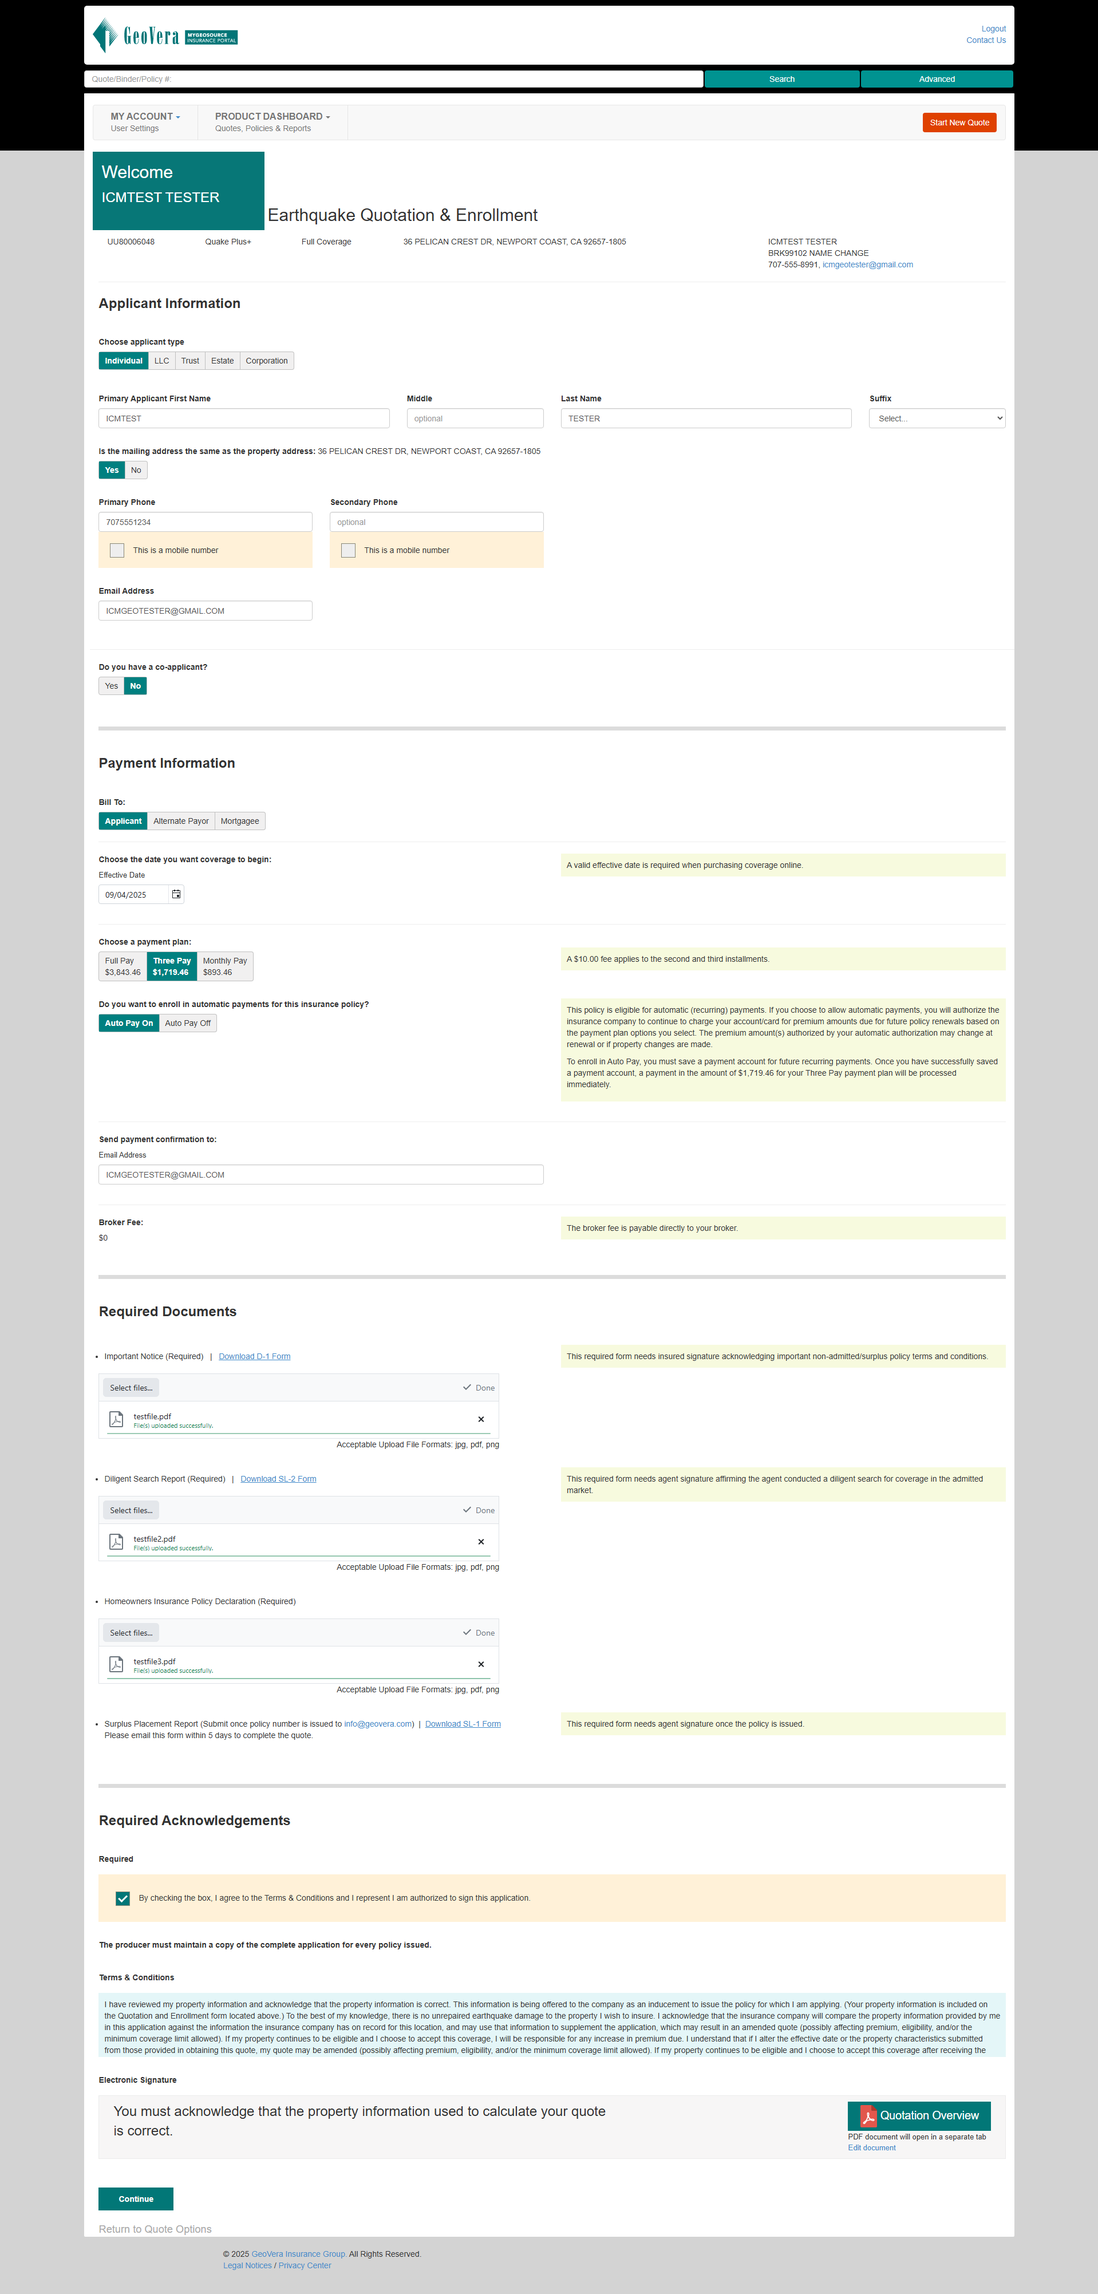
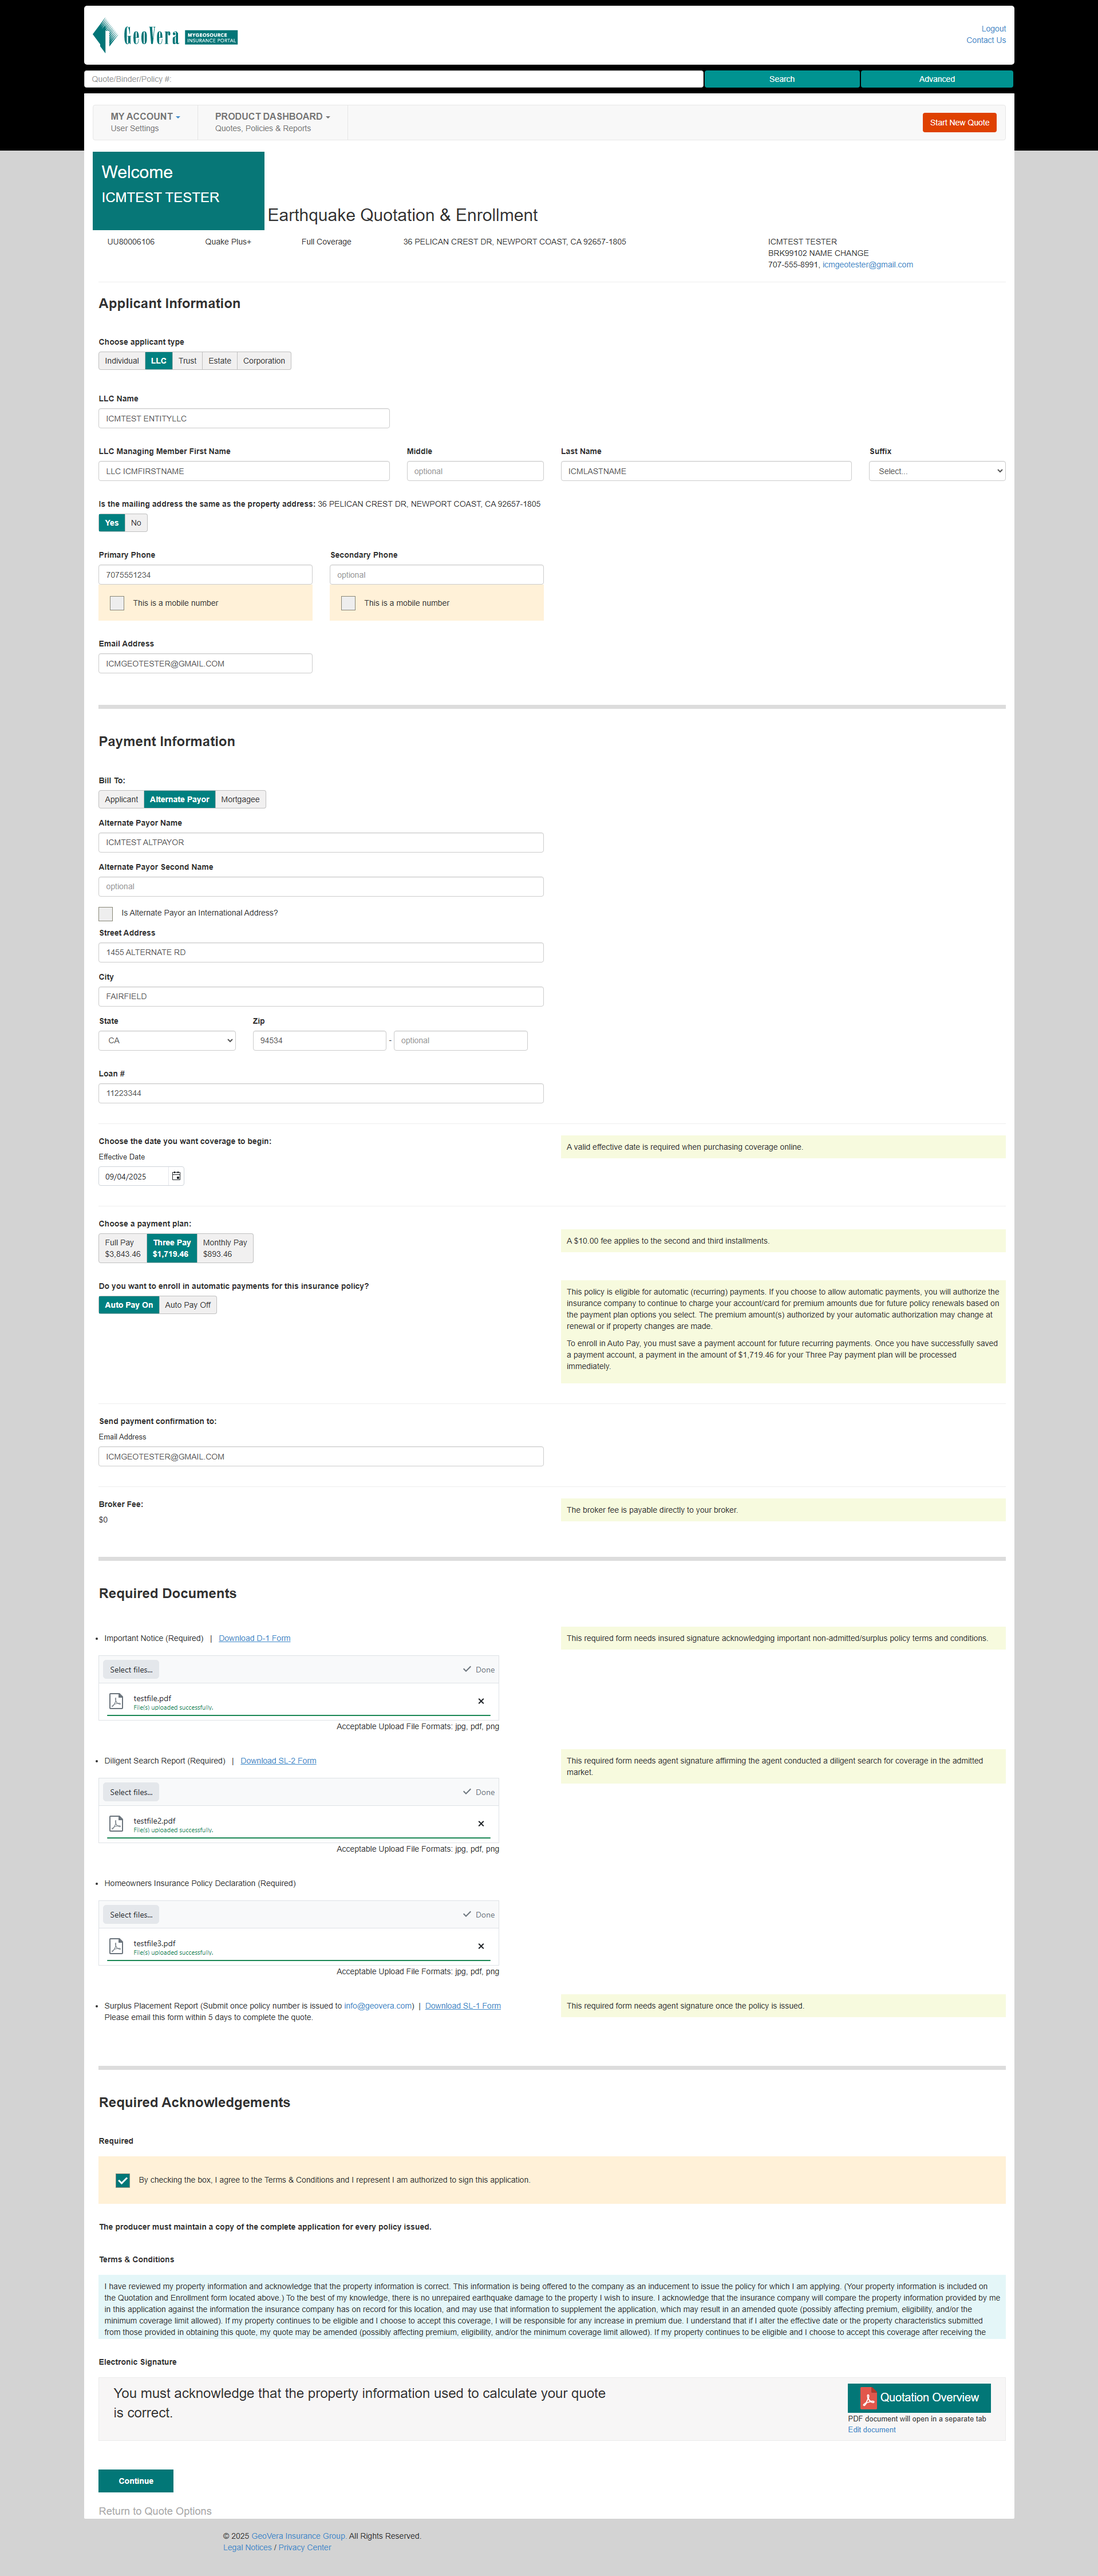
Updated to include variable selection for applicant type along with updates to payment plan, auto payment, and bill to choice

diff --git a/tests/test_quakeplusflex/test_quote_quakeplusflex_10%.py b/tests/test_quakeplusflex/test_quote_quakeplusflex_10%.py
@@ -50,7 +50,7 @@ def test_quote_quakeplusflex_5percent(page: Page) -> None:
     # deductible_percent = os.getenv("DEDUCTIBLE_PERCENT", "10%")
 
     # Applicant Choice: Applicant, Alternate Payor, Mortgagee
-    applicant_choice = os.getenv("APPLICANT_CHOICE", "Applicant")
+    bill_to = os.getenv("BILL_TO", "Alternate Payor")
 
     page.goto("https://tst.mygeosource.com/")
     page.get_by_role("textbox", name="Policyholder Email or Agent").fill("BRK99102")
@@ -120,18 +120,61 @@ def test_quote_quakeplusflex_5percent(page: Page) -> None:
     page.screenshot(path=screenshot_path7, full_page=True)
     page.get_by_role("button", name="Pay Now").click()
 
-    page.locator(".radio-toolbar")
-# Set this variable to one of: 'Applicant', 'Alternate Payor', 'Mortgagee'
-    applicant_choice_option = applicant_choice
-    print(f"\nSelected Applicant Choice: {applicant_choice_option}\n")
-    if applicant_choice_option == "Applicant":
+
+    
+    toolbars = page.locator(".radio-toolbar")
+
+    # 1st toolbar = applicant type
+    toolbars.nth(0).get_by_text(applicant_type, exact=True).click()
+    print(f"\nSelected Applicant Type: \n{applicant_type}")
+    if applicant_type == "Individual":
         page.get_by_text("Applicant", exact=True).click()
         # Fill in applicant information
         # page.locator("#Applicant_FirstName").fill("ICMTEST")
         # page.locator("#Applicant_LastName").fill("TESTER")
         # page.locator("#Applicant_PhoneNumber").fill("7075551234")
         # page.locator("#ApplicantEmailAddress").fill("ICMGEOTESTER@GMAIL.COM")
-    elif applicant_choice_option == "Alternate Payor":
+    elif applicant_type == "LLC":
+        page.get_by_text("LLC", exact=True).click()
+        # Fill in the alternate payor information
+        page.locator("#Entity").fill("ICMTEST ENTITYLLC")
+        page.locator("#ManagingMember_FirstName").fill("LLC ICMFIRSTNAME")
+        page.locator("#ManagingMember_LastName").fill("ICMLASTNAME")
+    elif applicant_type == "Trust":
+        page.get_by_text("Trust", exact=True).click()
+        # Fill in mortgagee information
+        page.locator("#Entity").fill("ICMTEST ENTITYLLC")
+        page.locator("#ManagingMember_FirstName").fill("LLC ICMFIRSTNAME")
+        page.locator("#ManagingMember_LastName").fill("ICMLASTNAME")
+    elif applicant_type == 'Estate':
+        page.get_by_text("Estate", exact=True).click()
+        # Fill in estate information
+        page.locator("#Entity").fill("ICMTEST ENTITYESTATE")
+        page.locator("#ManagingMember_FirstName").fill("ESTATE ICMFIRSTNAME")
+        page.locator("#ManagingMember_LastName").fill("ICMLASTNAME")
+    elif applicant_type == 'Corporation':
+        page.get_by_text("Corporation", exact=True).click()
+        # Fill in corporation information
+        page.locator("#Entity").fill("ICMTEST ENTITYCORPORATION")
+        page.locator("#ManagingMember_FirstName").fill("CORPORATION ICMFIRSTNAME")
+        page.locator("#ManagingMember_LastName").fill("ICMLASTNAME")
+    else:
+        raise ValueError(f"Unknown bill to choice: {bill_to_choice}")
+
+
+
+    page.locator(".radio-toolbar")
+# Set this variable to one of: 'Applicant', 'Alternate Payor', 'Mortgagee'
+    bill_to_choice = bill_to
+    print(f"\n\nSelected Bill To Choice: \n{bill_to_choice}\n")
+    if bill_to_choice == "Applicant":
+        page.get_by_text("Applicant", exact=True).click()
+        # Fill in applicant information
+        # page.locator("#Applicant_FirstName").fill("ICMTEST")
+        # page.locator("#Applicant_LastName").fill("TESTER")
+        # page.locator("#Applicant_PhoneNumber").fill("7075551234")
+        # page.locator("#ApplicantEmailAddress").fill("ICMGEOTESTER@GMAIL.COM")
+    elif bill_to_choice == "Alternate Payor":
         page.get_by_text("Alternate Payor", exact=True).click()
         # Fill in the alternate payor information
         page.locator("#AlternatePayor_Addressee1").fill("ICMTEST ALTPAYOR")
@@ -140,7 +183,7 @@ def test_quote_quakeplusflex_5percent(page: Page) -> None:
         page.locator("#AlternatePayor_State").select_option("CA")
         page.locator("#AlternatePayor_ZipCode").fill("94534")
         page.locator("#AlternatePayorLoanNumber").fill("11223344")
-    elif applicant_choice_option == "Mortgagee":
+    elif bill_to_choice == "Mortgagee":
         page.get_by_text("Mortgagee", exact=True).click()
         # Fill in mortgagee information
         page.locator('#btn-edit-mortgagee').click()
@@ -152,14 +195,14 @@ def test_quote_quakeplusflex_5percent(page: Page) -> None:
         page.locator("#Mortgagee1_State").select_option("CA")
         page.locator("#Mortgagee1_ZipCode").fill("94534")
     else:
-        raise ValueError(f"Unknown applicant choice: {applicant_choice_option}")
+        raise ValueError(f"Unknown bill to choice: {bill_to_choice}")
 
     payment_type = page.get_by_text(payment_plan)
     payment_type.click()
-    print(f"\nSelected Payment Type: {payment_type.inner_text()}")
+    print(f"Selected Payment Type: \n{payment_type.inner_text()}\n")
     auto_pay_onoff = page.get_by_text(auto_payment, exact=True)
     auto_pay_onoff.click()
-    print(f"Selected Auto Pay: {auto_pay_onoff.inner_text()}")
+    print(f"Selected Auto Pay: \n{auto_pay_onoff.inner_text()}\n")
     page.set_input_files("#fileD1",
                     absolute_path1)
     page.set_input_files("#fileSL2",
@@ -169,7 +212,7 @@ def test_quote_quakeplusflex_5percent(page: Page) -> None:
     page.locator(".eqq-terms-and-conditions-agreement > .eqq-checkbox-container > .eqq-checkbox > .bho-checkbox > .bho-checkmark").click()
     td_text = page.locator('table.eqq-summary td').first.text_content()
     match = re.fullmatch(r"UU\d{8}", td_text.strip())
-    print(f"Quote Number:\n {td_text.strip()}")
+    print(f"Quote Number:\n{td_text.strip()}\n")
     payment_toolbar = page.locator('.radio-toolbar').filter(has_text="Full Pay")
     radio_items = payment_toolbar.locator('.radio-item')
     for i in range(radio_items.count()):
@@ -177,7 +220,7 @@ def test_quote_quakeplusflex_5percent(page: Page) -> None:
         if len(label_text) == 2:
             plan, amount = label_text
             if plan.strip() in ["Full Pay", "Three Pay", "Monthly Pay"]:
-                print(f"{plan.strip()}: {amount.strip()}")
+                print(f"{plan.strip()}: \n{amount.strip()}")
         else:
             print(f"Unknown format: {label_text}")
     screenshot_path8 = "screenshot_quotation_enrollment.png"
